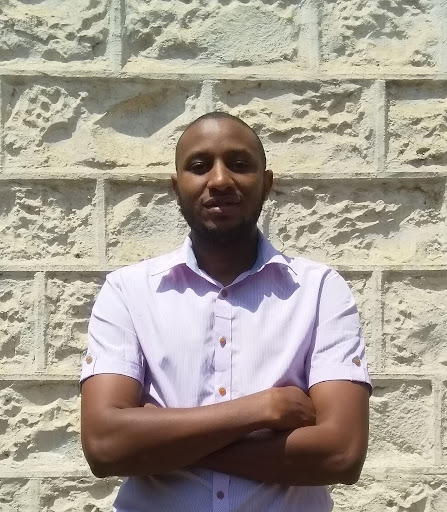
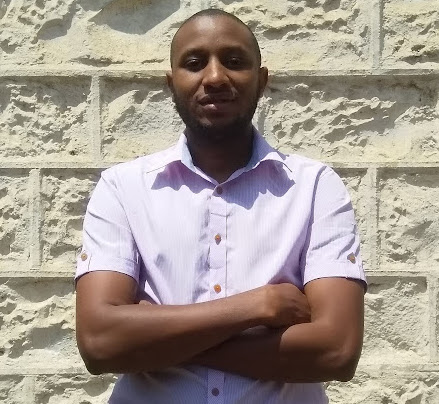
Fit images to card media component

diff --git a/src/components/About/Staff.js b/src/components/About/Staff.js
@@ -11,7 +11,7 @@ import { makeStyles } from '@material-ui/core/styles';
 
 import jack from 'assets/images/team/jack.jpeg';
 import kirah from 'assets/images/team/kirah.jpeg';
-import constant from 'assets/images/team/constant.jpeg';
+import constant from 'assets/images/team/constant.jpg';
 import gideon from 'assets/images/team/gideon.jpeg';
 
 const useStyles = makeStyles((theme) => ({
@@ -25,9 +25,7 @@ const useStyles = makeStyles((theme) => ({
     textAlign: 'center',
   },
   card: {
-    // height: 200,
     width: '100%',
-    // margin: theme.spacing.unit * 3,
     backgroundColor: '#fff',
     [theme.breakpoints.up('sm')]: {
       marginLeft: '0.1rem',
@@ -42,8 +40,9 @@ const useStyles = makeStyles((theme) => ({
     },
   },
   cardMedia: {
-    height: 250,
-    objectFit: 'cover',
+    height: 300, // To fit all image sizes
+    width: '100%',
+    objectFit: 'fit',
     maxWidth: '20.75rem',
     margin: 'auto',
   },
@@ -86,13 +85,13 @@ function Staff(props) {
       <Grid item xs={12} className={classes.staffRoot}>
         <Card className={classes.card}>
           <CardActionArea>
-            <CardMedia
-              component="img"
-              alt="Chege"
-              className={classes.cardMedia}
-              image={constant}
-              title="Chege"
-            />
+            <CardMedia title="Constant">
+              <img
+                src={constant}
+                alt="Constant"
+                className={classes.cardMedia}
+              />
+            </CardMedia>
             <CardContent>
               <Typography variant="h6" className={classes.h6}>
                 CONSTANT CAP
@@ -111,13 +110,9 @@ function Staff(props) {
 
         <Card className={classes.card}>
           <CardActionArea>
-            <CardMedia
-              title="kirah"
-              component="img"
-              alt="Kirah"
-              className={classes.cardMedia}
-              image={kirah}
-            />
+            <CardMedia title="Kirah">
+              <img src={kirah} alt="Kirah" className={classes.cardMedia} />
+            </CardMedia>
             <CardContent>
               <Typography variant="h6" className={classes.h6}>
                 WARUKIRA THEURI
@@ -136,13 +131,9 @@ function Staff(props) {
 
         <Card className={classes.card}>
           <CardActionArea>
-            <CardMedia
-              component="img"
-              alt="Chege"
-              className={classes.cardMedia}
-              image={jack}
-              title="Chege"
-            />
+            <CardMedia title="Jack">
+              <img src={jack} alt="Jack" className={classes.cardMedia} />
+            </CardMedia>
             <CardContent>
               <Typography variant="h6" className={classes.h6}>
                 JACK MCLEANS
@@ -164,13 +155,9 @@ function Staff(props) {
 
         <Card className={classes.card}>
           <CardActionArea>
-            <CardMedia
-              component="img"
-              alt="Chege"
-              className={classes.cardMedia}
-              image={gideon}
-              title="Chege"
-            />
+            <CardMedia title="Gideon">
+              <img src={gideon} alt="Gideon" className={classes.cardMedia} />
+            </CardMedia>
             <CardContent>
               <Typography variant="h6" className={classes.h6}>
                 GIDEON MAINA
